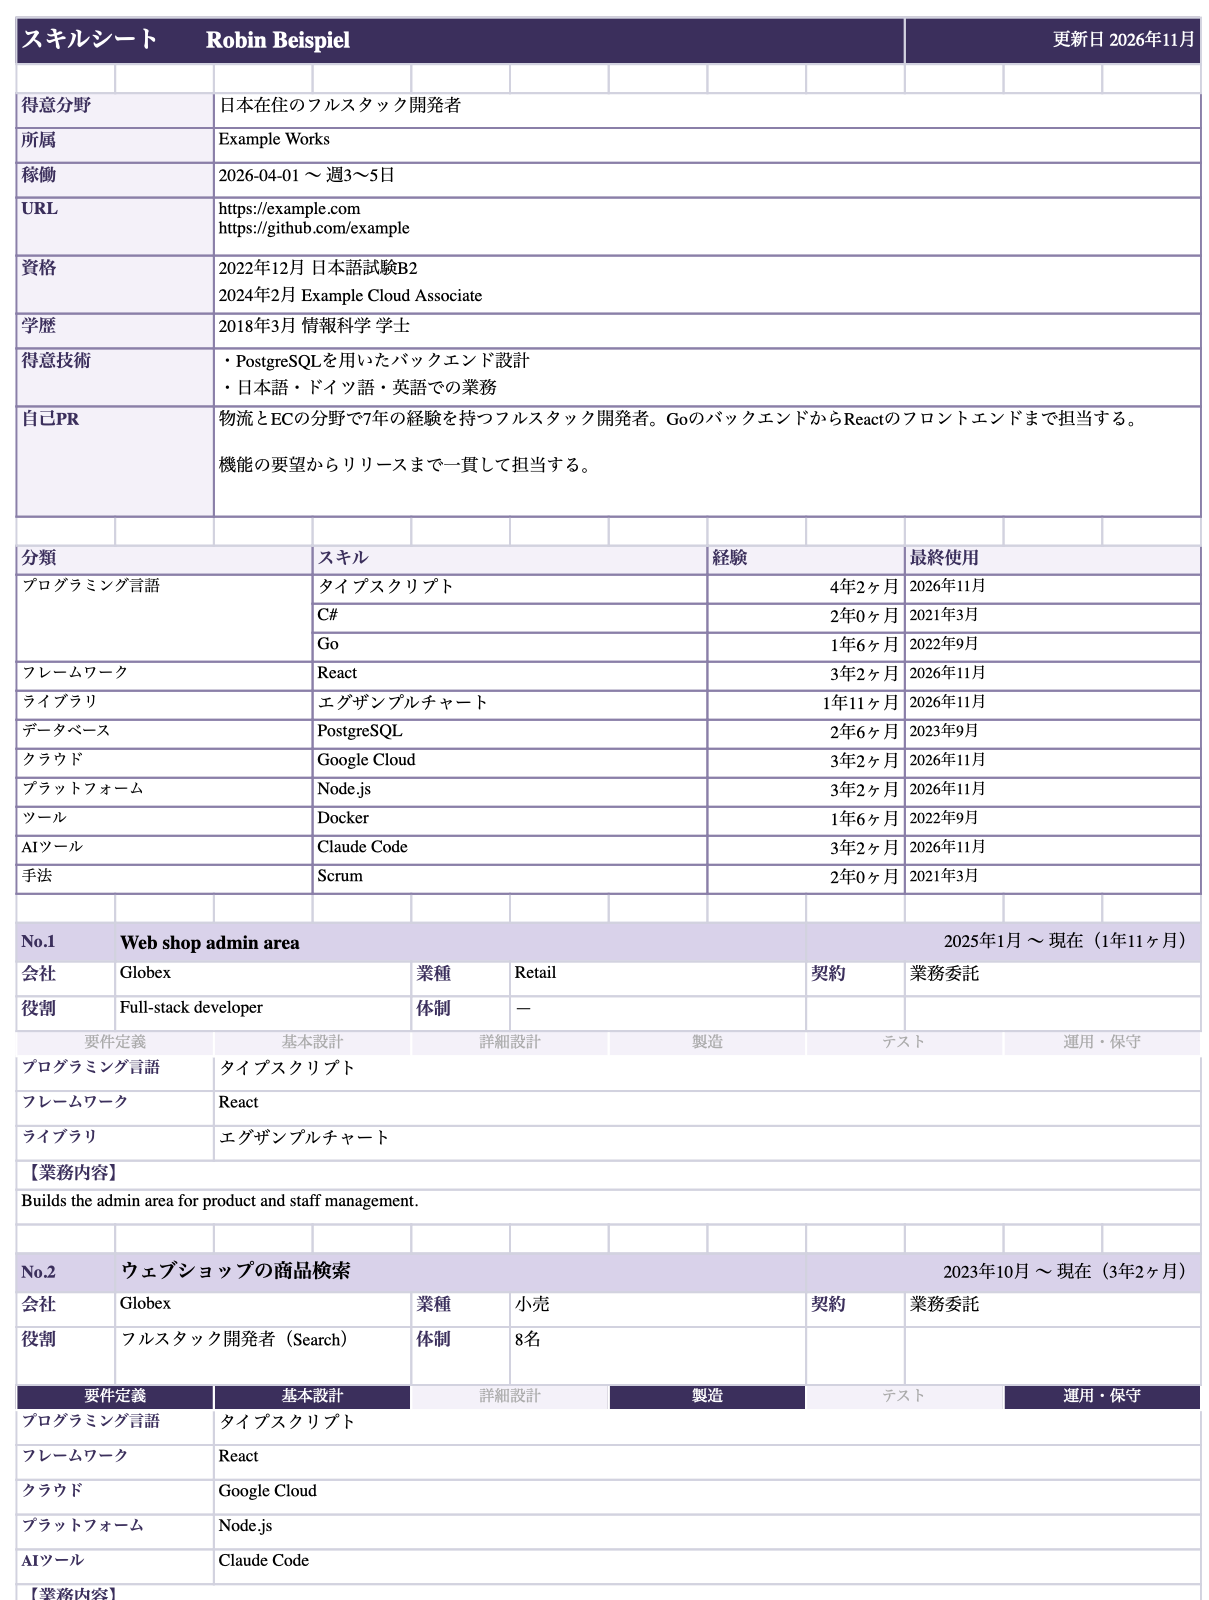
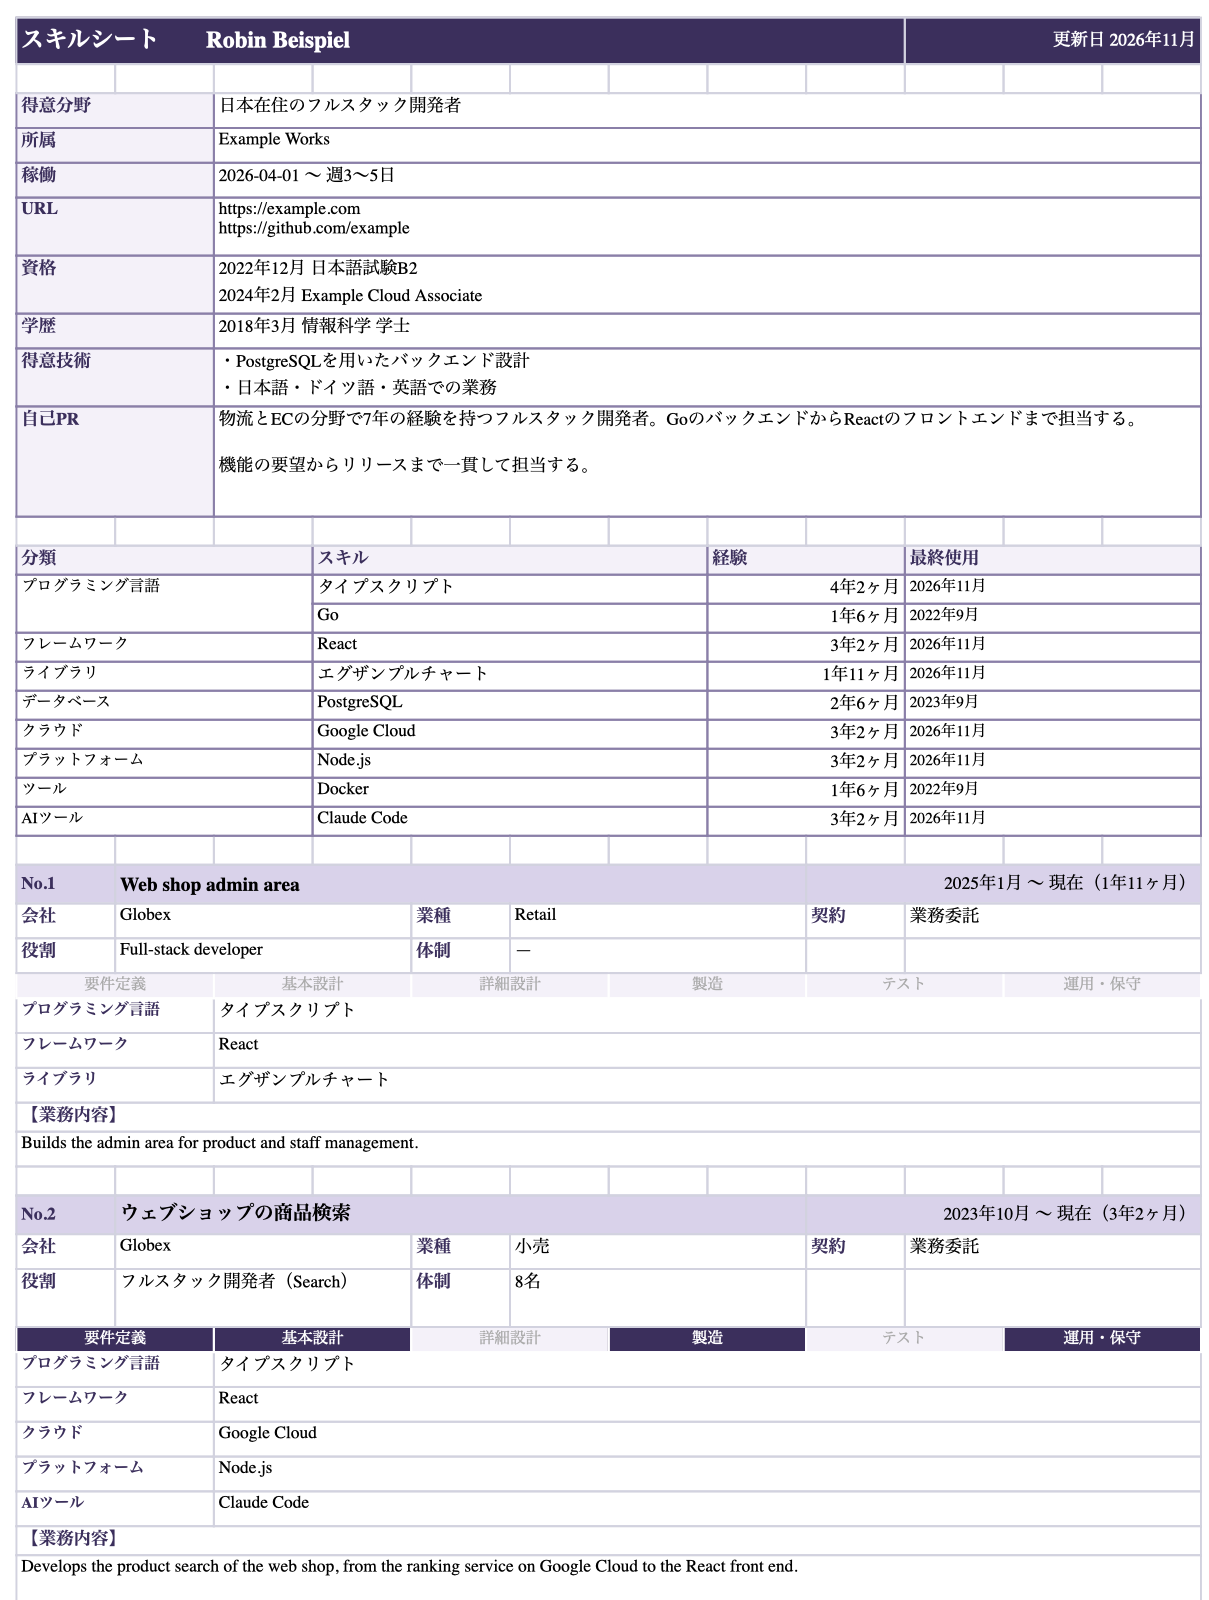
feat(prototype): apply the Skill Sheet's Skill rule to layout C
A Skill is shown when a Project links it and its last use, the later of its last Project month and
`last_used`, falls within 5 years of the build month. `last_used` never adds to the years and never
brings in a Skill without a Project.

diff --git a/crates/documents/prototype/skill_sheet_model.py b/crates/documents/prototype/skill_sheet_model.py
@@ -2,11 +2,11 @@
 # prototypes can be judged on real content before `documents` exists. The real model is built in Rust from the
 # domain types (issue #7); this file only shows which fields the layout needs.
 #
-#   uv run --with pyyaml python -I crates/documents/prototype/skill_sheet_model.py <vault> <build-month> <out.json> \
-#     [<recent-years>]
+#   uv run --with pyyaml python -I crates/documents/prototype/skill_sheet_model.py <vault> <build-month> <out.json>
 #
-# With <recent-years>, only Skills last used within that many years up to the build month are kept. The last use is
-# the later of the Skill's last Project month and its `last_used` field, which never adds to the years.
+# Skill rule (owner, 2026-11-18): a Skill is shown when a Project links it and its last use falls within
+# SKILL_WINDOW_YEARS up to the build month. The last use is the later of its last Project month and its `last_used`
+# field; `last_used` only extends recency, never adds to the years, and never brings in a Skill without a Project.
 
 import json
 import re
@@ -17,6 +17,8 @@ from pathlib import Path
 import yaml
 
 LANG = "ja"
+# The 職務経歴書 uses the same window; the CV uses 3 years.
+SKILL_WINDOW_YEARS = 5
 PHASES = [
     ("requirements", "要件定義"),
     ("basic-design", "基本設計"),
@@ -126,7 +128,11 @@ def last_use(front, last_project_month):
     return max(known) if known else None
 
 
-def skill_rows(skills, projects, build_month, recent_years):
+def is_shown(months, last, build_month):
+    return months > 0 and last > build_month - SKILL_WINDOW_YEARS * 12
+
+
+def skill_rows(skills, projects, build_month):
     months_by_skill, last_by_skill, count_by_skill = {}, {}, {}
     for front, _ in projects.values():
         start = month_index(front["start"])
@@ -141,7 +147,7 @@ def skill_rows(skills, projects, build_month, recent_years):
         labels = front.get("labels") or {}
         months = len(months_by_skill.get(name, ()))
         last = last_use(front, last_by_skill.get(name))
-        if recent_years and (last is None or last <= build_month - recent_years * 12):
+        if not is_shown(months, last, build_month):
             continue
         rows.append(
             {
@@ -237,7 +243,7 @@ def profile_block(root, organizations, qualifications):
     }
 
 
-def main(vault, build_month, out, recent_years=None):
+def main(vault, build_month, out):
     root = Path(vault).expanduser()
     organizations = load(root, "Organizations")
     projects = load(root, "Projects")
@@ -249,7 +255,7 @@ def main(vault, build_month, out, recent_years=None):
         "phase_labels": [label for _, label in PHASES],
         "category_labels": CATEGORIES,
         "profile": profile_block(root, organizations, load(root, "Qualifications")),
-        "skills": skill_rows(skills, projects, month, int(recent_years) if recent_years else None),
+        "skills": skill_rows(skills, projects, month),
         "projects": project_rows(
             projects, load(root, "Engagements"), load(root, "Contracts"), organizations, skills, month
         ),

diff --git a/crates/render-typst/prototype/README.md b/crates/render-typst/prototype/README.md
@@ -12,7 +12,7 @@ The question: what should the Skill Sheet (スキルシート) look like, as XLS
 
 ## Files
 
-- `crates/documents/prototype/skill_sheet_model.py`: reads a vault's notes into the model JSON, with the years per Skill computed from Project periods (overlaps counted once). Stands in for the `documents` crate.
+- `crates/documents/prototype/skill_sheet_model.py`: reads a vault's notes into the model JSON, with the years per Skill computed from Project periods (overlaps counted once) and the Skill rule: linked to a Project and last used within 5 years, where `last_used` extends recency only. Stands in for the `documents` crate.
 - `crates/render-typst/prototype/skill-sheet-{a,b,c}.typ`: the PDF templates. They read the model from `sys.inputs.data`.
 - `crates/render-xlsx/prototype/skill_sheet_xlsx.py`: the XLSX variants, written with Python's XlsxWriter, using only what rust_xlsxwriter also supports.
 
@@ -21,7 +21,7 @@ The question: what should the Skill Sheet (スキルシート) look like, as XLS
 Needs `uv`, the Typst CLI at the version the renderer embeds (0.15.1), and the font files in a folder (they are not in the repository; all three are SIL OFL 1.1).
 
 ```sh
-uv run --with pyyaml python -I crates/documents/prototype/skill_sheet_model.py fixtures/vault 2026-11 tmp/model.json [<recent-years>]
+uv run --with pyyaml python -I crates/documents/prototype/skill_sheet_model.py fixtures/vault 2026-11 tmp/model.json
 typst compile --ignore-system-fonts --font-path <fonts> --root . --input data=/tmp/model.json \
   crates/render-typst/prototype/skill-sheet-c.typ tmp/skill-sheet-c.pdf
 uv run --with xlsxwriter python -I crates/render-xlsx/prototype/skill_sheet_xlsx.py tmp/model.json c tmp/skill-sheet-c.xlsx
